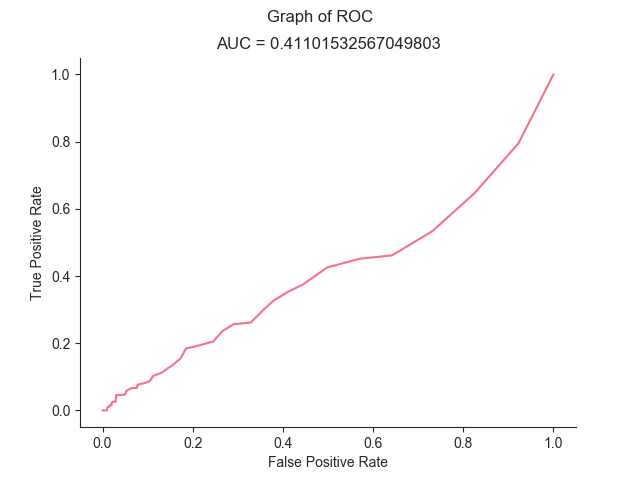
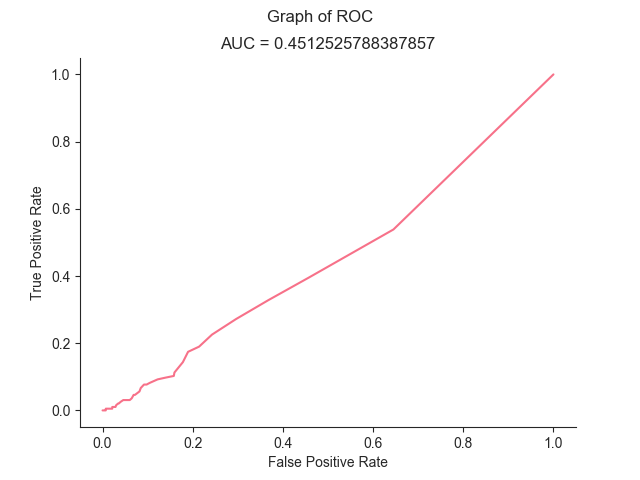
fully commented main and added options in argparse

diff --git a/nn/__main__.py b/nn/__main__.py
@@ -7,23 +7,20 @@ from .make_graphs import graph_learning_rate,graph_vary_params,graph_weight_bias
 import numpy as np
 import pandas as pd
 from sklearn.metrics import roc_curve, auc
+import argparse
 
 def get_args():
     parser = argparse.ArgumentParser(description="Description")
+    parser.add_argument("-e", "--epochs",type=int,help='number of epochs to run - typically 1000')
+    parser.add_argument("-l", "--learn",type=float,help='learning rate - typically .01')
+    parser.add_argument("-n","--neurons",default="68, 34, 1",nargs='+',help='number of neurons per layer, note: number of layers will be inferred, so you need at least 3')
     return parser.parse_args()
-
-def evaluate_identity(y,p):
-    '''
-
-    '''
-    best_case=sum(y==y)
-    evaluate=sum(y==p)/best_case
-    return evaluate
 
 def main():
     '''
     run the neural net on the training set of pos/neg sequences
     '''
+    args = get_args()
     # read in data from files, positive, negative, test
     # may want to make more specialized negative test sets later
     seq_train,seq_hold,seq_test = collect_datasets(
@@ -34,64 +31,96 @@ def main():
     # get the columns from the panda into the correct format - np array
     x = np.array(pd.DataFrame(seq_train.binary.values.tolist()))
     y = np.array(pd.DataFrame(seq_train.probability.values.tolist()))
-    test = np.array(pd.DataFrame(seq_test.binary.values.tolist()))
 
-    # cross-validation experiments
-    learning_rates = [.001,.01,.1,1]
-    epochs = 1000
-    hidden = [[68,34,1],[68,34,17,9,3,1],[68,68,68,68,68,34,34,34,34,34,17,17,17,9,9,9,3,3,3,1]]
+    # if you provide the single parametrs, run as a single run, otherwise
+    # run the cross validation set
+    if args.learn is not None:
 
-    # collect params out
-    collect = []
+        # set parameters
+        best_neurons = args.neurons
+        epochs = args.epochs
+        best_lr = args.learn
+        file_label = 'best_params_3-1k-.01'
 
-    # iterate through parameters
-    for l in learning_rates:
-        for h in hidden:
-            file_labels = '{0}-{1}-{2}'.format(l,epochs,len(h))
+        # intialize net
+        NN = NeuralNetwork(best_neurons)
 
-            # initialze net
-            NN = NeuralNetwork(h)
+        # train
+        error_train_list,error_valid_list,epochs_run = NN.gradient_descent(x,y,epochs,l)
 
-            # train
-            error_train_list,error_valid_list,epochs_run = NN.gradient_descent(x,y,epochs,l)
+        # run on input data to evaluate efficieny
+        predictions,_ = NN.feed_forward(x)
 
-            # make predictions based on inputs in order to evalue efficiency
-            predictions,_ = NN.feed_forward(x)
+        # true and fasle positive rates
+        fpr,tpr,_=roc_curve(y,predictions[-1])
 
-            # get false and true positive rates
-            fpr,tpr,_=roc_curve(y,predictions[-1])
+        # roc curve
+        roc_auc=auc(fpr, tpr)
 
-            # calcute roc
-            roc_auc=auc(fpr, tpr)
+        # graphing
+        graph_learning_rate(epochs_run,error_train_list,error_valid_list,file_label)
+        graph_roc(fpr,tpr,file_label,roc_auc)
+        graph_weight_bias_relation(NN,file_labels)
 
-            # graph how the error rates compare in different runs with different parameters
-            graph_learning_rate(epochs_run,error_train_list,error_valid_list,file_labels)
+        # convert the test data into correct format for running in net
+        test = np.array(pd.DataFrame(seq_test.binary.values.tolist()))
 
-            # graph the roc
-            graph_roc(fpr,tpr,file_labels,roc_auc)
+        # get predictions
+        predictions,_ = NN.feed_forward(test)
 
-            # if sufficently many layers, get the distributions of biases and weights in those layers
-            if len(h) > 17:
-                graph_weight_bias_relation(NN,file_labels)
+        # convert to panda to print out to file
+        pd_p = pd.DataFrame(predictions[-1])
+        pd_p.columns = ['probability']
+        pd_predict = pd_p.join(seq_test['sequence'])
+        pd_predict.to_csv('probabilities.txt',sep='\t',header=False,index=False)
 
-            # collect all the parameters
-            collect.append([len(h),epochs,epochs_run,l,error_train_list[-1],error_valid_list[-1],fpr,tpr])#,pd_p['probability'].mean(),pd_p['probability'].std()
+    else:
+        # cross-validation experiments
+        learning_rates = [.001,.01,.1,1]
+        epochs = 1000
+        hidden = [[68,34,1],[68,34,17,9,3,1],[68,68,68,68,68,34,34,34,34,34,17,17,17,9,9,9,3,3,3,1]]
 
-    # get parameters into dataframe and save to file, then graphic representations
-    pd_params = pd.DataFrame(collect)
-    pd_params.columns = ['layer_num','epochs','epochs_run','learning_rate','train_error','valid_error','fpr','tpr']#,'ave_prob','std_prob'
-    pd_params.to_csv('params.txt',sep='\t',header=True,index=False)
-    graph_vary_params(pd_params)
+        # collect params out
+        collect = []
 
+        # iterate through parameters
+        for l in learning_rates:
+            for h in hidden:
+                file_labels = '{0}-{1}-{2}'.format(l,epochs,len(h))
 
-    # need to make something here to pick the best and run the pridctions with the trained model
-    # # run on test, make prediction on probabilty of binding, print to
-    # # file with original sequence
-    # predictions,_ = NN.feed_forward(test)
-    # pd_p = pd.DataFrame(predictions[-1])
-    # pd_p.columns = ['probability']
-    # pd_predict = pd_p.join(seq_test['sequence'])
-    # pd_predict.to_csv('probabilities.txt',sep='\t',header=False,index=False)
+                # initialze net
+                NN = NeuralNetwork(h)
+
+                # train
+                error_train_list,error_valid_list,epochs_run = NN.gradient_descent(x,y,epochs,l)
+
+                # make predictions based on inputs in order to evalue efficiency
+                predictions,_ = NN.feed_forward(x)
+
+                # get false and true positive rates
+                fpr,tpr,_=roc_curve(y,predictions[-1])
+
+                # calcute roc
+                roc_auc=auc(fpr, tpr)
+
+                # graph how the error rates compare in different runs with different parameters
+                graph_learning_rate(epochs_run,error_train_list,error_valid_list,file_labels)
+
+                # graph the roc
+                graph_roc(fpr,tpr,file_labels,roc_auc)
+
+                # if sufficently many layers, get the distributions of biases and weights in those layers
+                if len(h) > 17:
+                    graph_weight_bias_relation(NN,file_labels)
+
+                # collect all the parameters
+                collect.append([len(h),epochs,epochs_run,l,error_train_list[-1],error_valid_list[-1],fpr,tpr])#,pd_p['probability'].mean(),pd_p['probability'].std()
+
+        # get parameters into dataframe and save to file, then graphic representations
+        pd_params = pd.DataFrame(collect)
+        pd_params.columns = ['layer_num','epochs','epochs_run','learning_rate','train_error','valid_error','fpr','tpr']#,'ave_prob','std_prob'
+        pd_params.to_csv('params.txt',sep='\t',header=True,index=False)
+        graph_vary_params(pd_params)
 
 if __name__ == "__main__":
     main()

diff --git a/test/run_tests.py b/test/run_tests.py
@@ -4,6 +4,14 @@ import pytest
 from nn.make_network import NeuralNetwork
 from nn.read_data import collect_datasets
 
+def evaluate_identity(y,p):
+    '''
+    check how often the predictions align with the actual - for use in 838
+    '''
+    best_case=sum(y==y)
+    evaluate=sum(y==p)/best_case
+    return evaluate
+
 def run_auto_encoder():
     '''
     8 3 8 auto encoder
